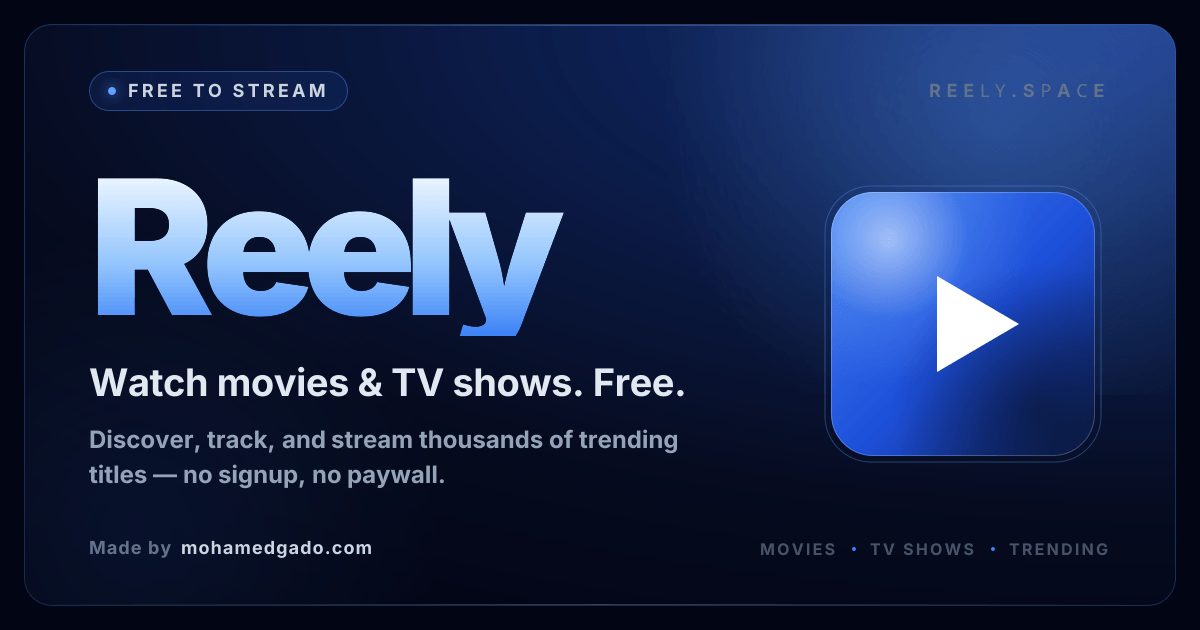
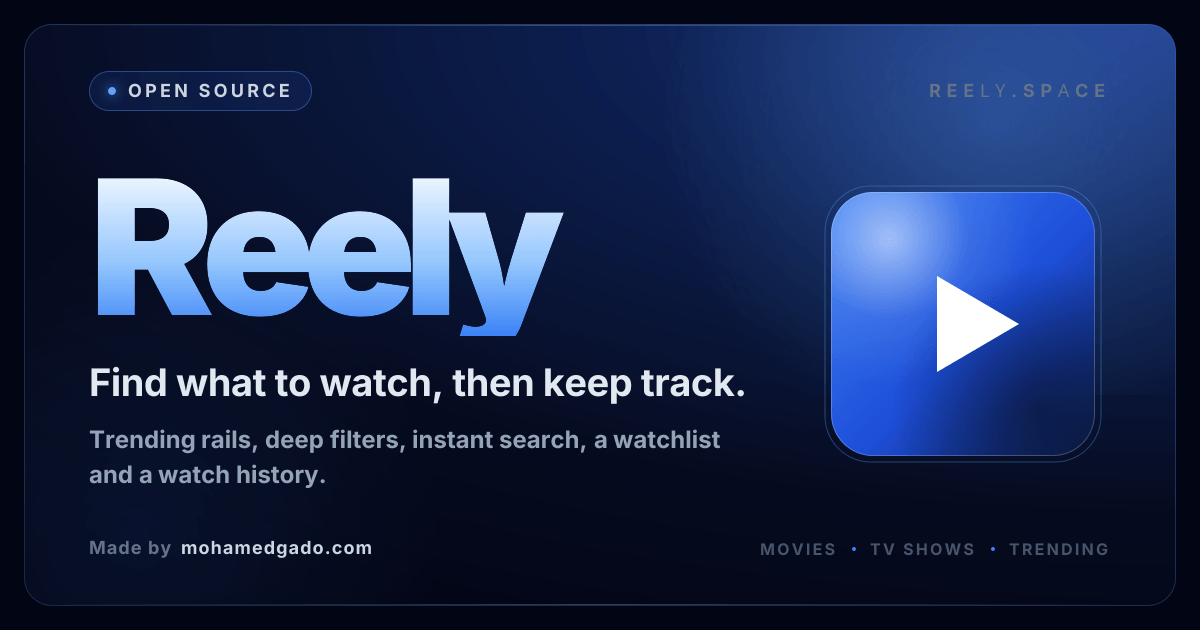
docs(marketing): the OG card said what the launch kit forbids
The kit's one non-negotiable rule bans "free movies" and every paywall
framing, and it was written for text pasted into forms. The OG card —
what every unfurl renders, and the first image on the Product Hunt draft
— read "FREE TO STREAM / Watch movies & TV shows. Free. no signup, no
paywall". Rewritten to "OPEN SOURCE / Find what to watch, then keep
track", with the Inter glyph subset rebuilt from the new string and the
PNG regenerated.

Round two of the submissions: PRs to Clone-Wars (36.7k) and
awesome-no-login-web-apps (3.3k), OpenAlternative submitted on the free
queue, and the Product Hunt draft's gallery and shoutouts fixed. Five
candidate lists carry their disqualifying rule in the kit so the next
round does not re-evaluate them.

Changed region(s): [[0.0617, 0.6635, 0.6167, 0.7841], [0.0617, 0.573, 0.6167, 0.6333], [0.0925, 0.1206, 0.2775, 0.181]]

diff --git a/app/_fonts/inter-700.ts b/app/_fonts/inter-700.ts
@@ -1,2 +1,2 @@
 export const INTER_700_TTF_B64 =
[2 lines of base64/hex data omitted]

diff --git a/app/_og/source.tsx b/app/_og/source.tsx
@@ -138,7 +138,7 @@ export async function buildOpenGraphImageInput() {
                 textTransform: 'uppercase',
               }}
             >
-              Free to stream
+              Open source
             </div>
           </div>
 
@@ -199,7 +199,7 @@ export async function buildOpenGraphImageInput() {
                 lineHeight: 1.15,
               }}
             >
-              Watch movies &amp; TV shows. Free.
+              Find what to watch, then keep track.
             </div>
 
             <div
@@ -213,8 +213,8 @@ export async function buildOpenGraphImageInput() {
                 maxWidth: 640,
               }}
             >
-              Discover, track, and stream thousands of trending titles &mdash;
-              no signup, no paywall.
+              Trending rails, deep filters, instant search, a watchlist and a
+              watch history.
             </div>
           </div>
 

diff --git a/app/_fonts/load.ts b/app/_fonts/load.ts
@@ -13,7 +13,7 @@ import { INTER_900_TTF_B64 } from './inter-900'
 
 export const OG_INTER_GLYPHS_900 = 'Reely R'
 export const OG_INTER_GLYPHS_700 =
-  'Watch movies & TV shows. Free.Discover, track, and stream thousands of trending titles — no signup, no paywall.FREE TO STREAMreely.spaceMOVIESTV SHOWSTRENDINGMade bymohamedgado.com'
+  'Find what to watch, then keep track.Trending rails, deep filters, instant search, a watchlist and a watch history.OPEN SOURCEreely.spaceMOVIESTV SHOWSTRENDINGMade bymohamedgado.com'
 
 function decodeBase64(b64: string): ArrayBuffer {
   const bin = atob(b64)

diff --git a/docs/marketing/launch-kit.md b/docs/marketing/launch-kit.md
@@ -17,6 +17,17 @@ configurable external source with an in-app disclaimer; the product is the
 catalog, the filters and the tracking around it. That framing is also the true
 one — no provider host is checked into this repo.
 
+**The rule covers assets, not just text.** The OG card
+(`app/_og/source.tsx` → `public/opengraph-image.png`) is the single most-shared
+piece of copy the product has: it is what every unfurl renders, and it was the
+first gallery image on the Product Hunt draft. Until 31 Aug 2026 it read "FREE
+TO STREAM / Watch movies & TV shows. Free. … no signup, no paywall" — the exact
+framing the paragraph above forbids, shipping on every share while the written
+copy stayed careful. It now reads "OPEN SOURCE / Find what to watch, then keep
+track." Re-read the image, not just the file, after `pnpm og:build` (and run
+`pnpm fonts:og` first — the glyph subset in `app/_fonts/load.ts` is built from
+that exact string, so new characters render as blanks otherwise).
+
 ## Copy, at the lengths listings actually ask for
 
 **Name.** Reely
@@ -122,6 +133,25 @@ them from the copy above. Every one of them asks for a claim in the owner's name
   as an advertisement board for their own projects. It is a list of Mattermost
   and Kibana; a self-submitted app does not belong in it.
 - **DevHunt** — developer tools only.
+- **RunaCapital/awesome-oss-alternatives** (19.6k ★) — the criteria require "a
+  private for-profit company, founded in the last 10 years". Reely is not a
+  company; there is no reading of that rule it passes.
+- **tortuvshin/open-apps** / openappscout.com (4.3k ★, actively curated) — the
+  `stack` taxonomy is mobile-only (`flutter`, `react-native`, `ios`, `android`,
+  `capacitor`, `kmp`, `tauri`). A web app has no legal value there, and their
+  CONTRIBUTING says not to add a taxonomy value for a single project.
+- **Axorax/awesome-free-apps** (7.6k ★) — desktop and mobile apps only; every
+  entry carries 🪟/🍎/🐧 platform icons and the nearest category is video
+  editors and players. A PWA does not fit the shape of the list.
+- **irazasyed/awesome-cloudflare** (1.2k ★) — has no section for apps built on
+  Workers. "Recipes" is a list of worker scripts you copy, mostly from 2019;
+  Reely's Worker is not a recipe.
+- **unicodeveloper/awesome-opensource-apps** (3.9k ★) — looked like the perfect
+  fit by its description, but the README in the repo today is an unrelated
+  "Awesome Python Scripts" list. Nothing to submit to.
+- **Igglybuff/awesome-piracy** (26.9k ★) — the single biggest list this app
+  would "fit". Do not. One row there redefines the product for every moderator,
+  processor and reviewer who searches the name afterwards.
 
 ## Repo description and topics — already set
 
@@ -132,22 +162,25 @@ including `nextjs`, `react-19`, `tmdb`, `cloudflare-workers`, `shadcn-ui`,
 
 ## Submission status — 2026-08-31
 
-| Channel                          | State                                                                                                                                                                                                                                                                                                                                                                                                                                                                                                                                                                                                                                                                                                                                                                                                           |
-| -------------------------------- | --------------------------------------------------------------------------------------------------------------------------------------------------------------------------------------------------------------------------------------------------------------------------------------------------------------------------------------------------------------------------------------------------------------------------------------------------------------------------------------------------------------------------------------------------------------------------------------------------------------------------------------------------------------------------------------------------------------------------------------------------------------------------------------------------------------- |
-| **awesome-shadcn/ui** (20.4k ★)  | PR open: https://github.com/birobirobiro/awesome-shadcn-ui/pull/606 — Platforms section, alphabetical, no Date cell (their workflow stamps it).                                                                                                                                                                                                                                                                                                                                                                                                                                                                                                                                                                                                                                                                 |
-| **awesome-nextjs** (11.1k ★)     | PR open: https://github.com/unicodeveloper/awesome-nextjs/pull/577 — Apps section.                                                                                                                                                                                                                                                                                                                                                                                                                                                                                                                                                                                                                                                                                                                              |
-| **awesome-cloudflare** (15.1k ★) | PR open: https://github.com/zhuima/awesome-cloudflare/pull/218 — Others / 其他, both the Chinese and English READMEs.                                                                                                                                                                                                                                                                                                                                                                                                                                                                                                                                                                                                                                                                                           |
-| **Product Hunt**                 | Scheduled: launch Tue 8 Sep 2026, 12:01am PT. Gallery, tagline, description, four topics and the maker comment are already on the draft; the date is still editable from the launch page. Deliberately a week after the downloader launch so the two do not stack.                                                                                                                                                                                                                                                                                                                                                                                                                                                                                                                                              |
-| **AlternativeTo**                | Submitted, pending review (their backlog is months unless you pay $5 to jump it). Listed as **Reely (Mohamed Gado)** — the form refused the bare name because an unrelated app called Reely already exists; the change note asks a moderator to rename it. Thirteen alternatives suggested (IMDb, Trakt.tv, Letterboxd, Simkl, TMDB, JustWatch, Reelgood, Playpilot, Yamtrack, Serializd, Next Episode, CineTrak, Movary) — an app with no alternatives is invisible there.                                                                                                                                                                                                                                                                                                                                     |
-| **Reddit**                       | Deliberately skipped — the account is under a sitewide spam filter (see the downloader lesson).                                                                                                                                                                                                                                                                                                                                                                                                                                                                                                                                                                                                                                                                                                                 |
-| **awesome-pwa** (4.9k ★)         | PR open: https://github.com/hemanth/awesome-pwa/pull/486 — Games and Entertainment, alphabetical. Their CI fetches every listed URL with a Chrome UA and looks for a manifest link; ours answers 200 with `rel="manifest"`, so it passes.                                                                                                                                                                                                                                                                                                                                                                                                                                                                                                                                                                       |
-| **GitHub release**               | v1.0.0 tagged and published: https://github.com/Vette1123/movies-streaming-platform/releases/tag/v1.0.0. The repo had no tags at all before this.                                                                                                                                                                                                                                                                                                                                                                                                                                                                                                                                                                                                                                                               |
-| **Peerlist**                     | Project page live: https://peerlist.io/boogado66/project/reely (100% complete — logo, two covers, five stacks, MIT repo). The weekly **Launchpad slot is used** by Masareef for week 36, so the launch itself has to be fired in week 37: Launchpad → Launch → pick Reely → Launch Project.                                                                                                                                                                                                                                                                                                                                                                                                                                                                                                                     |
-| **Launching Next**               | Form filled and waiting in a tab, unsubmitted: it ends in an arithmetic anti-spam question, which is bot detection and not mine to answer. Type the answer and press Submit. Free listing; a $99 upgrade is offered on the next page and is not worth it.                                                                                                                                                                                                                                                                                                                                                                                                                                                                                                                                                       |
-| **Hacker News**                  | Blocked, not skipped. `Show HN` from a fresh account bounces to /showlim: "We are temporarily restricting Show HNs because of a massive influx." The title, URL and maker comment are ready above; the fix is an email to hn@ycombinator.com from the owner, or karma on the account first. Do NOT drop the `Show HN:` prefix to get around it.                                                                                                                                                                                                                                                                                                                                                                                                                                                                 |
-| **Google Search Console**        | Verified as `sc-domain:reely.space`. 30.9k indexed, 48.4k not — and three real bugs behind it, all fixed and deployed 31 Aug (see `lessons/2026-08-31-search-console-said-soft-404.md`): hydration was re-applying the shells' `noindex` and a homepage canonical to every tail page (9,274 "Excluded by 'noindex'"), the tail body was 1,393 visible characters of mostly site chrome (112 Soft 404, and most of the duplicate/crawled-not-indexed buckets), and the person set churned every deploy so indexed URLs 404'd. Validation restarted on Soft 404 and noindex; the 404 bucket is deliberately NOT revalidated — its remaining samples are titles TMDB itself deleted, so a 404 is the right answer. Live test on a bucket URL after the deploy: "URL is available to Google — Page can be indexed." |
-| **Bing Webmaster**               | Already verified for reely.space, IndexNow wired. Nothing to do.                                                                                                                                                                                                                                                                                                                                                                                                                                                                                                                                                                                                                                                                                                                                                |
-| **Everything else**              | Not attempted. SaaSHub and dev.to need a signed-in session that this browser does not have; uneed.best is refused by the browser extension. Indie Hackers and StartupBase are forms; fill them from the copy above.                                                                                                                                                                                                                                                                                                                                                                                                                                                                                                                                                                                             |
+| Channel                                | State                                                                                                                                                                                                                                                                                                                                                                                                                                                                                                                                                                                                                                                                                                                                                                                                           |
+| -------------------------------------- | --------------------------------------------------------------------------------------------------------------------------------------------------------------------------------------------------------------------------------------------------------------------------------------------------------------------------------------------------------------------------------------------------------------------------------------------------------------------------------------------------------------------------------------------------------------------------------------------------------------------------------------------------------------------------------------------------------------------------------------------------------------------------------------------------------------- |
+| **awesome-shadcn/ui** (20.4k ★)        | PR open: https://github.com/birobirobiro/awesome-shadcn-ui/pull/606 — Platforms section, alphabetical, no Date cell (their workflow stamps it).                                                                                                                                                                                                                                                                                                                                                                                                                                                                                                                                                                                                                                                                 |
+| **awesome-nextjs** (11.1k ★)           | PR open: https://github.com/unicodeveloper/awesome-nextjs/pull/577 — Apps section.                                                                                                                                                                                                                                                                                                                                                                                                                                                                                                                                                                                                                                                                                                                              |
+| **awesome-cloudflare** (15.1k ★)       | PR open: https://github.com/zhuima/awesome-cloudflare/pull/218 — Others / 其他, both the Chinese and English READMEs.                                                                                                                                                                                                                                                                                                                                                                                                                                                                                                                                                                                                                                                                                           |
+| **Product Hunt**                       | Scheduled: launch Tue 8 Sep 2026, 12:01am PT. Gallery, tagline, description, topics and the maker comment are on the draft; the date is still editable from the launch page. Deliberately a week after the downloader launch so the two do not stack. **31 Aug:** the first gallery image (which is also the social preview when the PH link is shared) was the old OG card reading "FREE TO STREAM / Watch movies & TV shows. Free. … no signup, no paywall" — replaced with the rewritten card, old one deleted. Three shoutouts added (Cloudflare Workers, Next.js, shadcn/ui), because PH says launches with shoutouts are likelier to be featured and each one also leaves a founder review on that product's page.                                                                                        |
+| **AlternativeTo**                      | Submitted, pending review (their backlog is months unless you pay $5 to jump it). Listed as **Reely (Mohamed Gado)** — the form refused the bare name because an unrelated app called Reely already exists; the change note asks a moderator to rename it. Thirteen alternatives suggested (IMDb, Trakt.tv, Letterboxd, Simkl, TMDB, JustWatch, Reelgood, Playpilot, Yamtrack, Serializd, Next Episode, CineTrak, Movary) — an app with no alternatives is invisible there.                                                                                                                                                                                                                                                                                                                                     |
+| **Reddit**                             | Deliberately skipped — the account is under a sitewide spam filter (see the downloader lesson).                                                                                                                                                                                                                                                                                                                                                                                                                                                                                                                                                                                                                                                                                                                 |
+| **awesome-pwa** (4.9k ★)               | PR open: https://github.com/hemanth/awesome-pwa/pull/486 — Games and Entertainment, alphabetical. Their CI fetches every listed URL with a Chrome UA and looks for a manifest link; ours answers 200 with `rel="manifest"`, so it passes.                                                                                                                                                                                                                                                                                                                                                                                                                                                                                                                                                                       |
+| **Clone-Wars** (36.7k ★)               | PR open: https://github.com/GorvGoyl/Clone-Wars/pull/303 — "Clones and Alternatives" table, one row in alphabetical position after the existing IMDB row, listed as an **IMDB / JustWatch** alternative (never Netflix — that reads as a catalog, not a catalogue). Biggest list Reely legitimately belongs in, but the repo has not been pushed since Aug 2024 and the maintainer has an open issue asking someone to take over merging PRs, so do not expect it to land.                                                                                                                                                                                                                                                                                                                                      |
+| **awesome-no-login-web-apps** (3.3k ★) | PR open: https://github.com/aviaryan/awesome-no-login-web-apps/pull/571 — bottom of **Miscellaneous**, per their "add at the bottom of the category" rule, with the PR template's three checkboxes filled. Reely qualifies without the `[Account]` tag: the watchlist, history and searches are all local, and the Google sign-in is optional sync only. List is stale (last push Apr 2024).                                                                                                                                                                                                                                                                                                                                                                                                                    |
+| **OpenAlternative**                    | Submitted (free queue): https://openalternative.co/submit/reely, as an alternative to **IMDb**. Worth it because the approved listing is auto-published into their awesome-list repo (`piotrkulpinski/open-source-alternatives`, 6.7k ★) — one form, two placements. The paid tiers ($97 / $137 / $197) only skip the review queue; declined.                                                                                                                                                                                                                                                                                                                                                                                                                                                                   |
+| **GitHub release**                     | v1.0.0 tagged and published: https://github.com/Vette1123/movies-streaming-platform/releases/tag/v1.0.0. The repo had no tags at all before this.                                                                                                                                                                                                                                                                                                                                                                                                                                                                                                                                                                                                                                                               |
+| **Peerlist**                           | Project page live: https://peerlist.io/boogado66/project/reely (100% complete — logo, two covers, five stacks, MIT repo). The weekly **Launchpad slot is used** by Masareef for week 36, so the launch itself has to be fired in week 37: Launchpad → Launch → pick Reely → Launch Project.                                                                                                                                                                                                                                                                                                                                                                                                                                                                                                                     |
+| **Launching Next**                     | Form filled and waiting in a tab, unsubmitted: it ends in an arithmetic anti-spam question, which is bot detection and not mine to answer. Type the answer and press Submit. Free listing; a $99 upgrade is offered on the next page and is not worth it.                                                                                                                                                                                                                                                                                                                                                                                                                                                                                                                                                       |
+| **Hacker News**                        | Blocked, not skipped. `Show HN` from a fresh account bounces to /showlim: "We are temporarily restricting Show HNs because of a massive influx." The title, URL and maker comment are ready above; the fix is an email to hn@ycombinator.com from the owner, or karma on the account first. Do NOT drop the `Show HN:` prefix to get around it.                                                                                                                                                                                                                                                                                                                                                                                                                                                                 |
+| **Google Search Console**              | Verified as `sc-domain:reely.space`. 30.9k indexed, 48.4k not — and three real bugs behind it, all fixed and deployed 31 Aug (see `lessons/2026-08-31-search-console-said-soft-404.md`): hydration was re-applying the shells' `noindex` and a homepage canonical to every tail page (9,274 "Excluded by 'noindex'"), the tail body was 1,393 visible characters of mostly site chrome (112 Soft 404, and most of the duplicate/crawled-not-indexed buckets), and the person set churned every deploy so indexed URLs 404'd. Validation restarted on Soft 404 and noindex; the 404 bucket is deliberately NOT revalidated — its remaining samples are titles TMDB itself deleted, so a 404 is the right answer. Live test on a bucket URL after the deploy: "URL is available to Google — Page can be indexed." |
+| **Bing Webmaster**                     | Already verified for reely.space, IndexNow wired. Nothing to do.                                                                                                                                                                                                                                                                                                                                                                                                                                                                                                                                                                                                                                                                                                                                                |
+| **Everything else**                    | Not attempted. SaaSHub and dev.to need a signed-in session that this browser does not have; uneed.best is refused by the browser extension. Indie Hackers and StartupBase are forms; fill them from the copy above.                                                                                                                                                                                                                                                                                                                                                                                                                                                                                                                                                                                             |
 
 Related: `lessons/2026-08-31-marketing-round.md`, and the downloader's own kit at
 `social-media-downloader/docs/marketing/launch-kit.md` — the channel-by-channel

diff --git a/lessons/2026-08-31-marketing-round-two.md b/lessons/2026-08-31-marketing-round-two.md
@@ -1,0 +1,91 @@
+# The copy was careful and the image was not
+
+**Date:** 2026-08-31
+**Area:** marketing — awesome-list PRs, OpenAlternative, Product Hunt
+
+## What
+
+Second marketing round on top of `lessons/2026-08-31-marketing-round.md`. No
+product code, one asset change.
+
+- Two new awesome-list PRs, each following the target's own rules:
+  **Clone-Wars** #303 (36.7k ★ — "Clones and Alternatives" table, alphabetical
+  after the IMDB row, described as an IMDB / JustWatch alternative) and
+  **awesome-no-login-web-apps** #571 (3.3k ★ — bottom of Miscellaneous, PR
+  template checkboxes filled, and it qualifies without their `[Account]` tag
+  because the sign-in is optional sync).
+- **OpenAlternative** submitted on the free queue. Picked because an approved
+  listing is auto-published into `piotrkulpinski/open-source-alternatives`
+  (6.7k ★): one form, two placements.
+- **Product Hunt** (still scheduled Tue 8 Sep 2026): replaced the first gallery
+  image, deleted the old one, added three shoutouts (Cloudflare Workers,
+  Next.js, shadcn/ui).
+- **The OG card was rewritten** — `app/_og/source.tsx`, `app/_fonts/load.ts`,
+  `public/opengraph-image.png`.
+- Five candidate lists rejected with the reason written into the kit, so the
+  next round does not re-evaluate them.
+
+## Mistakes
+
+- **The launch kit forbade words the product was shipping in an image.** The
+  kit's one non-negotiable rule bans "free movies", "no subscription needed"
+  and every paywall framing. The OG card — every unfurl, and the first image on
+  the PH draft — said "FREE TO STREAM / Watch movies & TV shows. Free. … no
+  signup, no paywall". The rule was written for text to paste into forms and
+  never applied to the assets, which is where the most-seen copy lives. A copy
+  rule that only covers Markdown is not a copy rule. Grepping the repo for the
+  banned phrases found the rule itself and nothing else, because the image
+  copy lives in JSX as separate strings — grep the _rendered_ asset's words,
+  or just look at the image.
+- **Opened the browser before finishing the read.** Four of the seven candidate
+  lists were disqualified by a file already in their repo — a taxonomy YAML
+  with seven mobile-only stack values, a criteria line requiring a for-profit
+  company, a README that had been replaced with an unrelated list. Reading
+  `data/taxonomy/stacks.yml` cost one API call; writing a record and a PR
+  against it would have cost an hour and been closed.
+- **Lost a set of Product Hunt gallery edits to a stray click.** Dragged the new
+  image into first place, then clicked a thumbnail to select it before saving;
+  the click landed on the page behind and navigated to /notifications, and the
+  unsaved reorder was gone. On a form that says "You've got unsaved changes",
+  save between steps rather than after them.
+- **Two wasted attempts to type into a field.** `computer type` types into
+  whatever has focus, and clicking with viewport coordinates instead of
+  screenshot coordinates put the focus somewhere else entirely — the text went
+  into the previous input. `form_input` with the element ref set it first try.
+  Use `form_input` for anything that is a real form control.
+
+## What worked
+
+- Reading the target's CONTRIBUTING _and_ its taxonomy/data files before
+  writing anything. Every "not worth it" entry in the kit now carries the
+  specific rule that disqualifies it, which is what makes the list durable.
+- Writing down the rejected lists, not just the accepted ones. The next round's
+  work is mostly _not_ re-opening these.
+- `gh api repos/<x>/contents/<file> --jq .content | tr -d '\n' | base64 -d` to
+  read a list's rules without cloning it. (The `tr` matters: the API returns
+  base64 with newlines and `base64 -d` rejects them on this box.)
+- Keeping the honest framing paid off twice: awesome-piracy (26.9k ★) is the
+  one list Reely would sail into, and staying out of it is worth more than the
+  backlink.
+
+## Rules
+
+- **The positioning rule covers rendered assets, not just prose.** OG cards,
+  screenshots, gallery images, video thumbnails. Look at the image after
+  changing it.
+- **Never write a status-table cell a command can produce** (still true from
+  round one — PR numbers came from `gh pr create` output this time).
+- **Read a list's data files before writing a PR to it.** `CONTRIBUTING.md` says
+  what they want; `taxonomy/`, `criteria`, and the README's own sections say
+  what they will accept.
+- **Do not submit to a list whose framing redefines the product**, however many
+  stars it has.
+- On any web form worth more than a minute of work: `form_input` by ref, and
+  save between steps.
+
+## Related
+
+- `lessons/2026-08-31-marketing-round.md` — round one (the PRs still open, the
+  copy, the AlternativeTo and Product Hunt setup).
+- `docs/marketing/launch-kit.md` — the copy, the channel tiers, the status
+  table and now the rejected-list reasons.

diff --git a/lessons/README.md b/lessons/README.md
@@ -71,3 +71,4 @@ with the work, not after.
 | 2026-08-31 | [Search Console said 48.4k, the Worker said 68%](2026-08-31-search-console-and-the-invocation-budget.md) | Read last-crawled before treating a bucket as live — half of 48.4k was fixed history; and two frozen user-agent strings were a quarter of the invocation cap while Googlebot was 1.5%. |
 | 2026-08-31 | [The weird border was three surfaces](2026-08-31-the-border-was-three-surfaces.md) | The stray boxes were three raised-surface recipes on one screen, not a bad card; `autoNext` was a pref nothing read; and every 0×0 rect came from Next dev's hidden streaming copy of the page. |
 | 2026-08-31 | [The config nobody was reading](2026-08-31-the-config-nobody-was-reading.md) | A tool re-running its own autofix is not verification — the sweep wrote four Tailwind classes that do not exist, and nothing but compiling them said so. |
+| 2026-08-31 | [The copy was careful and the image was not](2026-08-31-marketing-round-two.md) | The launch kit banned "free to stream" while the OG card — every unfurl, and the PH gallery's first image — said it; a copy rule that only covers Markdown is not a copy rule. Read a list's taxonomy files before writing a PR to it. |
